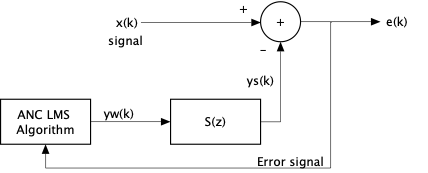
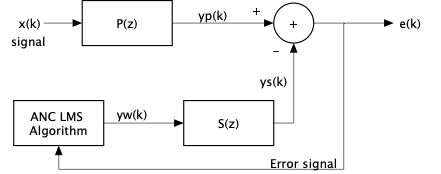
[FIX] Rename some variables and chenge flowcharts for systems and algorithms

diff --git a/Matlab/include/feedforwardFxNLMS.m b/Matlab/include/feedforwardFxNLMS.m
@@ -36,21 +36,21 @@ function results = feedforwardFxNLMS(signal, length, pzFilteredSig, ...
 
     tic
     % Calculate secondary path signal Sh(z)
-    shzEstimate = zeros(bufferSize, 1);
+    szEstimate = zeros(bufferSize, 1);
     tempAdaptationStep = zeros(1, bufferSize);
     identError = zeros(1, length);
 
     for ids = bufferSize:length
         samplesForEstimate = signal(ids:-1:ids - bufferSize + 1);
         tempAdaptationStep(ids) = 1 / (samplesForEstimate' * samplesForEstimate);
-        identError(ids) = szFilteredSig(ids) - shzEstimate' * samplesForEstimate;
-        shzEstimate = ...
-            shzEstimate + tempAdaptationStep(ids) * samplesForEstimate * identError(ids);
+        identError(ids) = szFilteredSig(ids) - szEstimate' * samplesForEstimate;
+        szEstimate = ...
+            szEstimate + tempAdaptationStep(ids) * samplesForEstimate * identError(ids);
     end
-    shzEstimate = abs(ifft(1./abs(fft(shzEstimate))));
+    szEstimate = abs(ifft(1./abs(fft(szEstimate))));
     
     % Calculate and generate output signal with FxNLMS algorithm
-    lmsFilter = filter(shzEstimate, 1, signal);
+    lmsFilter = filter(szEstimate, 1, signal);
     lmsOutput = zeros(bufferSize, 1);
     tempAdaptationStep = zeros(1, bufferSize);
     identError = zeros(1, length);

diff --git a/Matlab/include/feedforwardFxLMS.m b/Matlab/include/feedforwardFxLMS.m
@@ -36,21 +36,21 @@ function results = feedforwardFxLMS(signal, length, pzFilteredSig, ...
 
     tic
     % Calculate secondary path signal Sh(z) 
-    shzEstimate = zeros(bufferSize, 1);
+    szEstimate = zeros(bufferSize, 1);
     tempAdaptationStep = zeros(1, bufferSize);
     identError = zeros(1, length);
 
     for ids = bufferSize:length
         estimateBuffer = signal(ids:-1:ids - bufferSize + 1);
         tempAdaptationStep(ids) = adaptationStep;
-        identError(ids) = szFilteredSig(ids) - shzEstimate' * estimateBuffer;
-        shzEstimate = ...
-            shzEstimate + tempAdaptationStep(ids) * estimateBuffer * identError(ids);
+        identError(ids) = szFilteredSig(ids) - szEstimate' * estimateBuffer;
+        szEstimate = ...
+            szEstimate + tempAdaptationStep(ids) * estimateBuffer * identError(ids);
     end
-    shzEstimate = abs(ifft(1./abs(fft(shzEstimate))));
+    szEstimate = abs(ifft(1./abs(fft(szEstimate))));
     
     % Calculate and generate output signal with FxLMS algorithm
-    lmsFilter = filter(shzEstimate, 1, signal);
+    lmsFilter = filter(szEstimate, 1, signal);
     lmsOutput = zeros(bufferSize, 1);
     tempAdaptationStep = zeros(1, bufferSize);
     identError = zeros(1, length);

diff --git a/Matlab/activeNoiseCancellation.m b/Matlab/activeNoiseCancellation.m
@@ -30,7 +30,7 @@ function activeNoiseCancellation(varargin)
         end
     
         %% Initialize parameters, signals and dataset
-        inputSig = randn(100000, 1);
+        inputSig = randn(50000, 1);
         inputSig = inputSig/max(inputSig);
         sigLength = length(inputSig);
 
@@ -48,9 +48,9 @@ function activeNoiseCancellation(varargin)
         szFilteredSig = filter(szFilter, 1, inputSig);
         
         % Make sure that signals are column vectors
+        inputSig = inputSig(:);
         pzFilteredSig = pzFilteredSig(:);
         szFilteredSig = szFilteredSig(:);
-        inputSig = inputSig(:);
 
         getPlots = getPlotResults();
     
@@ -85,7 +85,9 @@ function activeNoiseCancellation(varargin)
             testCaseName, mode, getPlots);
     
         %testCaseName = "Feedback FxLMS";
-        %feedbackFxLMS();
+        %feedbackFxLmsResults = feedbackFxLMS( ...
+        %    inputSig, sigLength, adaptationStep, bufferSize, fs, ...
+        %    testCaseName, mode, getPlots);
 
         testCaseName = "Feedback NLMS";
         feedbackNlmsResults = feedbackNLMS( ...

diff --git a/Matlab/include/feedbackLMS.m b/Matlab/include/feedbackLMS.m
@@ -11,9 +11,9 @@
 % in any way. It occurs in the solution of the system, but does not 
 % assume a secondary path.
 %
-%                                                  +   
-%                                  x(k)------------> sum -+--> e(k)
-%                                                     ^-  |
+%                 +-----------+                    +   
+%    x(k) ------->|   P(z)    |--yp(k)------------> sum --+---> e(k)
+%                 +-----------+                       ^-  |
 %                                                     |   |
 %               +------------------ys(k)--------------+   |
 %               |                                         |

diff --git a/Matlab/include/feedbackNLMS.m b/Matlab/include/feedbackNLMS.m
@@ -11,9 +11,9 @@
 % in any way. It occurs in the solution of the system, but does not 
 % assume a secondary path.
 %
-%                                                  +   
-%                                  x(k)------------> sum -+--> e(k)
-%                                                     ^-  |
+%                 +-----------+                    +   
+%    x(k) ------->|   P(z)    |--yp(k)------------> sum --+---> e(k)
+%                 +-----------+                       ^-  |
 %                                                     |   |
 %               +------------------ys(k)--------------+   |
 %               |                                         |

diff --git a/Matlab/include/feedforwardLMS.m b/Matlab/include/feedforwardLMS.m
@@ -12,7 +12,7 @@
 % assume a secondary path.
 %
 %              +-----------+                       +   
-% x(k) ---+--->|    P(z)   |--yp(k)----------------> sum --+---> e(k)
+% x(k) ---+--->|   P(z)    |--yp(k)----------------> sum --+---> e(k)
 %         |    +-----------+                          ^-   |
 %         |                                           |    |
 %         |        \                                ys(k)  | 

diff --git a/Matlab/include/feedforwardNLMS.m b/Matlab/include/feedforwardNLMS.m
@@ -12,7 +12,7 @@
 % assume a secondary path.
 %
 %              +-----------+                       +   
-% x(k) ---+--->|    P(z)   |--yp(k)----------------> sum --+---> e(k)
+% x(k) ---+--->|   P(z)    |--yp(k)----------------> sum --+---> e(k)
 %         |    +-----------+                          ^-   |
 %         |                                           |    |
 %         |        \                                ys(k)  | 
